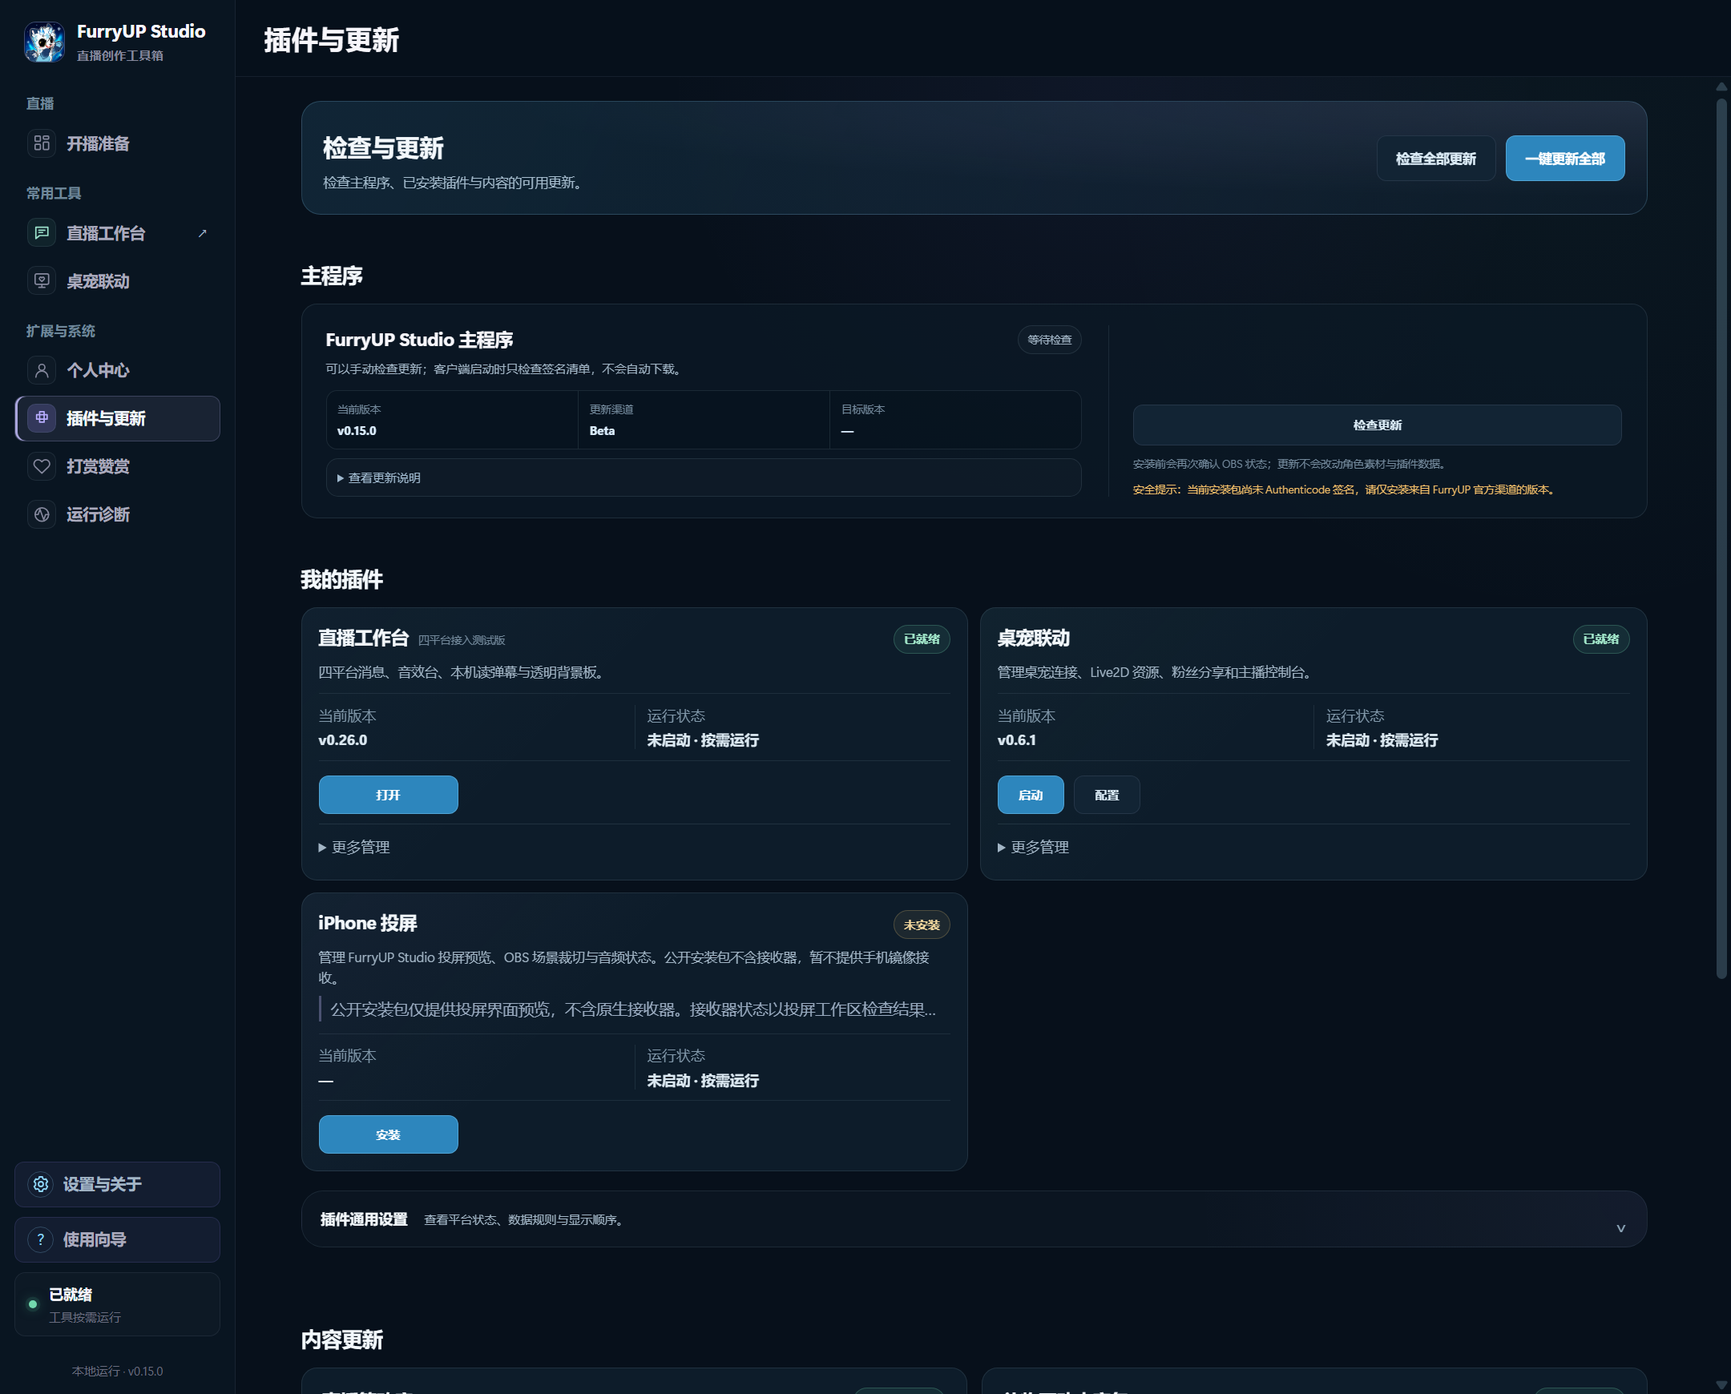
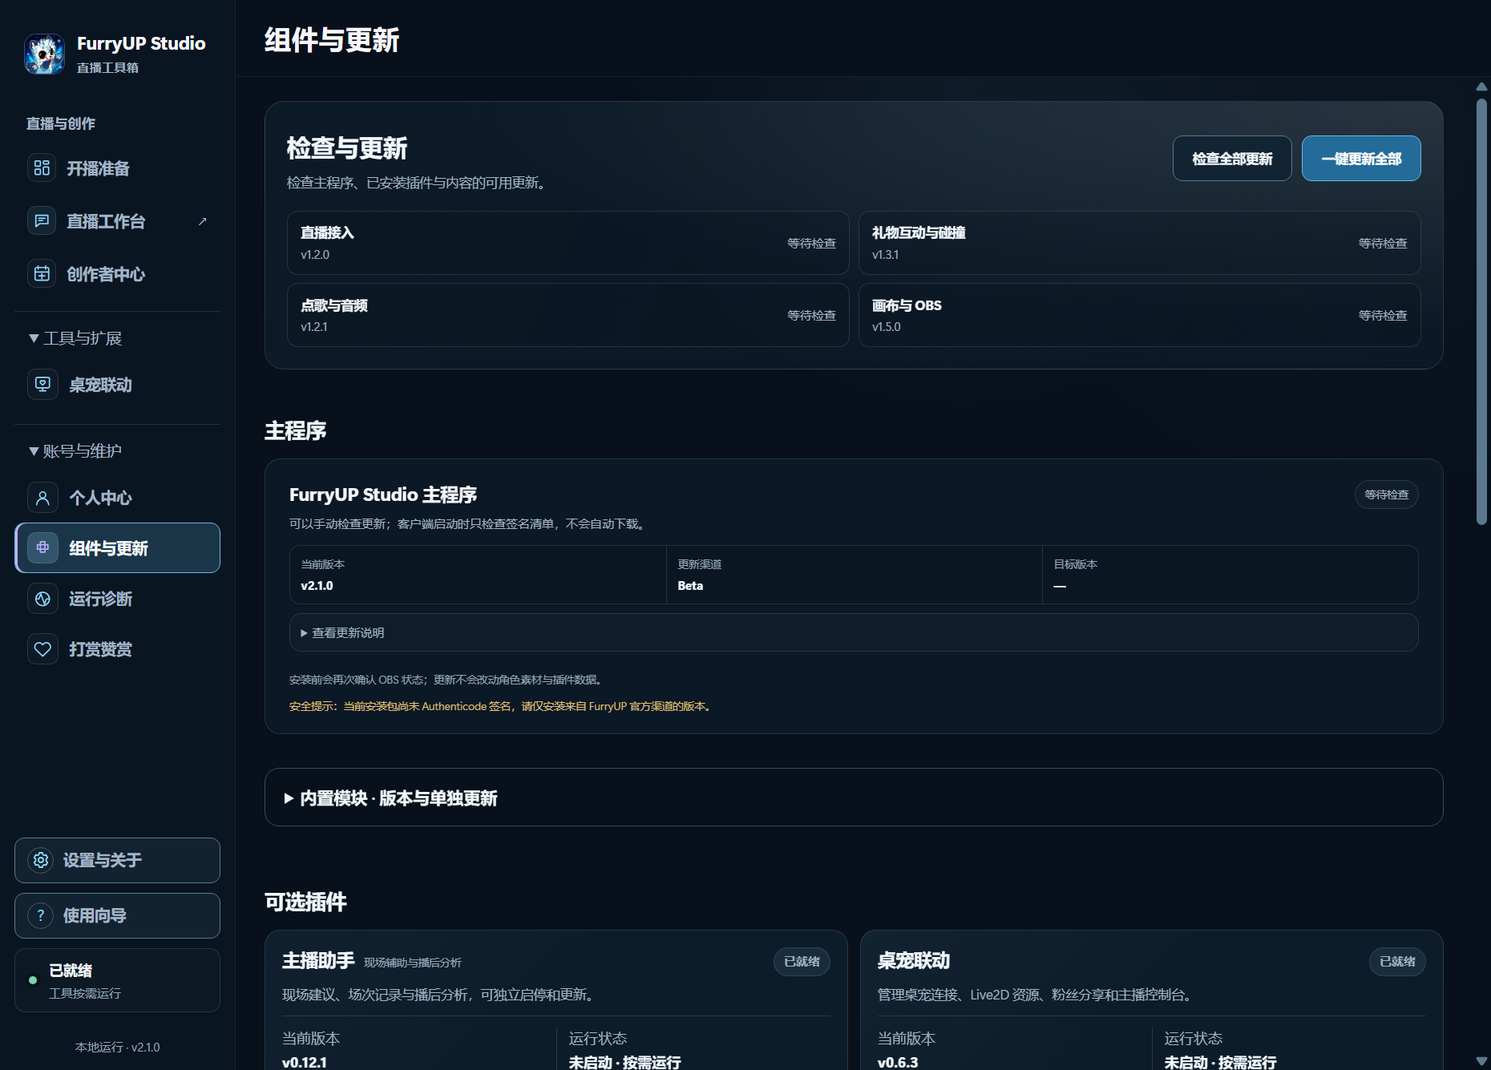
更新 FurryUP Studio 2.1.0 项目介绍和六张界面截图

diff --git a/README.md b/README.md
@@ -1,168 +1,70 @@
-<p align="center">
-  <img src="assets/furryup-studio.png" width="144" height="144" alt="FurryUP Studio 应用图标">
-</p>
+<p align="center"><img src="assets/furryup-studio.png" width="96" height="96" alt="FurryUP Studio 图标"></p>
 
-<h1 align="center">FurryUP Studio</h1>
+# FurryUP Studio 主播端
 
-<p align="center"><strong>把四平台弹幕、礼物与现场互动集中在一个工作台。</strong></p>
-<p align="center">主程序 + 独立插件 · 主播端官方安装包、软件介绍与重要更新</p>
+FurryUP Studio 把开播准备、直播互动和播后复盘放在一个 Windows 工作台。主播可以在同一处查看 B站、抖音、快手和视频号的弹幕与礼物，用 OBS 展示互动效果，也可以在下播后对照各平台的粉丝变化与收益记录。
 
-<p align="center">
-  <a href="https://frostynight.top/furryup">官方网站</a> ·
-  <a href="https://github.com/frostynight-furry/furryup-studio-releases/releases/tag/v0.15.0">最新版本</a> ·
-  <a href="#gift-interaction-and-model-collision">礼物互动与模型碰撞</a> ·
-  <a href="CHANGELOG.md">重要更新</a> ·
-  <a href="https://github.com/frostynight-furry/furryup-desktop-pet-releases">粉丝端桌宠</a>
-</p>
+**[下载 2.1.0 安装包 · Windows 10 / 11 x64](https://github.com/frostynight-furry/furryup-studio-releases/releases/download/v2.1.0/FurryUPStudio-Setup-2.1.0.exe)**　·　[本版说明与 SHA-256](https://github.com/frostynight-furry/furryup-studio-releases/releases/tag/v2.1.0)　·　[官方网站](https://frostynight.top/furryup)
 
-## 下载 FurryUP Studio
+## 第一次开播
 
-当前版本：**0.15.0**
+1. **开播准备**　选择出镜方式和这次要用的平台，点击「准备开播」。按页面提示检查 OBS 画面、麦克风和模型。
+2. **直播工作台**　在对应平台确认开播后，点击「连接直播」。快捷控制台显示各平台的连接状态、最近互动和朗读队列，也能直接打开悬浮窗。
+3. **创作者中心**　按需登录平台账号，查看粉丝和收益。图表标出统计来源、单位和记录范围，平台未返回的日期保留空白。
 
-| 适用系统 | 官方安装包 |
-| --- | --- |
-| **Windows 10 / Windows 11，64 位（x64）** | **[下载 FurryUP Studio 安装包](https://github.com/frostynight-furry/furryup-studio-releases/releases/download/v0.15.0/FurryUPStudio-Setup-0.15.0.exe)** |
+![2.1.0 开播准备，展示出镜方式、准备开播、连接直播与开播检查](assets/screenshots/studio-overview.png)
 
-[查看本版说明与 SHA-256 校验值 →](https://github.com/frostynight-furry/furryup-studio-releases/releases/tag/v0.15.0)
+## 直播中
 
-下载后退出正在运行的 FurryUP Studio，再运行安装包。首次使用请先配置需要的直播工具、平台连接和插件。安装包尚未进行 Windows 代码签名，Windows 可能显示“未知发布者”；请从本仓库或官网获取，并核对发布页的校验值。
+四个平台可分别连接。某个平台需要扫码或重新授权时，可以在「平台账号」处理。可收到的消息类型和观众指标由各平台提供。
 
-随包插件：**直播工作台 0.26.0 · 直播助手 0.8.1 · 桌宠联动 0.6.1 · iPhone 投屏预览 0.5.2**。
-
-## 可以做什么
-
-| 功能 | 使用方式 |
-| --- | --- |
-| **主程序 + 插件架构** | 主程序统一管理账户与工作区，直播工作台、直播助手、桌宠联动按需使用，支持独立安装、启停、更新和回滚。 |
-| **插件与更新** | 在一个页面检查主程序与插件更新，一键更新已安装插件并下载主程序更新，逐项查看进度与结果。 |
-| **四平台直播工作台** | 同时接入哔哩哔哩、抖音、快手和视频号，在同一工作台查看各平台连接状态，以及收到的弹幕和礼物消息。 |
-| **特定礼物规则** | 为指定平台与礼物设置反馈，按单次送礼、连送或累计数量触发效果，并管理等待队列。 |
-| **全局礼物特效** | 为其他礼物配置通用反馈，通过 OBS Studio 礼物互动源展示通知、礼物雨、爱心成形等效果。 |
-| **模型碰撞与自动接入** | 复用 VTube Studio 模型画面，自动准备 OBS 来源与礼物碰撞；有歧义时选择并记住，保留已有布局与规则。 |
-| **常驻礼物、节目与计时** | 管理常驻礼物展示、礼物对应的节目待办和倒计时，支持暂停、撤销及独立 OBS 输出。 |
-| **声音与现场控制** | 使用弹幕朗读、欢迎与礼物感谢、音效台和点歌队列，调整声音、暂停或跳过播放。 |
-| **直播助手** | 查看互动提醒、话题建议、礼物节目安排、投票和本场复盘，由主播决定是否采纳与执行。 |
-| **开播准备** | 保存平台与出镜方式，检查并启动 OBS Studio、平台直播工具等本机软件，减少重复准备。 |
-| **桌宠联动** | 管理角色与 Live2D 模型，为同一角色添加、选择和独立命名多款模型，明确发布后分享给粉丝。 |
-| **个人中心与语言** | 管理账户头像和名字、使用邮箱验证码登录或绑定账户；支持简体中文与 English 界面切换。 |
-
-四个平台可以同时连接；各平台提供的消息种类、字段与投递情况不同，实际显示以平台返回和客户端连接状态为准。各平台需分别完成房间或登录配置。FurryUP Studio 聚合收到的互动消息，正式推流仍需在对应平台软件中确认。
-
-### 一个主程序，按需使用插件
-
-FurryUP Studio 采用**主程序 + 独立插件**架构：主程序提供统一的账户、工作区与插件管理，直播工作台、直播助手和桌宠联动分别承担各自的功能。常规插件更新可以独立完成，无需每次重新安装整个主程序。
-
-新版**插件与更新**将更新总览和主程序更新放在页面顶部，下面集中管理各个插件。点击“检查全部更新”查看可用版本，或点击“一键更新全部”，依次更新已有插件并准备主程序安装包。主程序下载并校验完成后，点击“退出并安装”完成升级；安装前保留 OBS Studio 直播与录制状态检查。
-
-每个更新项目都有独立状态；个别插件失败时继续处理其余项目，可查看原因后重试。更新保留已验证的旧版本与已有的停用、卸载选择，不自动安装未安装的插件或启用已停用的插件。直播助手和消息采集独立运行，更新或停用助手不会中断直播工作台接收消息。
+![直播快捷控制台，展示四个平台的状态、本机预演的弹幕和礼物，以及朗读队列](assets/screenshots/live-workbench.png)
 
 <a id="gift-interaction-and-model-collision"></a>
 
-### 礼物互动与模型碰撞系统
+**礼物互动与模型碰撞**　可以按礼物种类、数量或连击设置反馈。先在「礼物互动」里本机试播，再决定是否启用。搭配支持实时轮廓的 VTube Studio，可为自己的模型手选碰撞部位，让礼物雨随模型轮廓落下，最后由 OBS 合成画面。
 
-**让观众送出的礼物，成为角色直播画面中的互动。**
+<details>
+<summary>查看礼物效果库</summary>
 
-FurryUP Studio 将礼物规则、视觉反馈和模型碰撞放在同一个直播工作台中。主播可以决定哪些礼物触发效果、达到多少数量开始播放，以及是否让礼物雨与正在出镜的模型发生碰撞。
+![礼物效果库，展示效果筛选、本机试播与触发设置](assets/screenshots/gift-interactions.png)
 
-| 系统 | 主播可以配置什么 |
-| --- | --- |
-| **礼物互动** | 特定礼物与通用规则、单次或连送数量门槛、通知和礼物雨、雨后爱心，以及音效与语音感谢。 |
-| **模型碰撞** | 从 VTube Studio 获取选定部位的实时轮廓，让礼物雨沿模型轮廓弹开或滑落，并与 OBS 中的模型画面对齐。 |
-| **自动接入** | 共用 VTube Studio 输入与碰撞准备流程；能唯一确定的来源自动复用，无法确定时选择一次并记住。 |
+</details>
 
-使用流程是 **准备连接与模型 → 保存并启用礼物规则 → 本地验证 → 接收直播礼物**。准备连接与启用规则分别控制，主播保留对实际播放的决定权。
+## 下播后看数据
 
-**公开范围：本节提供功能介绍与使用说明。礼物互动系统和模型碰撞系统的核心源码暂不公开，自制特效、业务规则实现、模型映射与专属素材保持私有。** 已单独开源的组件以各自仓库说明为准。
+「数据概览」并排显示粉丝分布与收益趋势。2.1.0 支持在同一个 FurryUP Studio 账号下查看已同步的创作数据。本机上传默认关闭，需要时在创作者中心开启「自动同步本机粉丝和收益」。
 
-直播控制台集中显示平台状态、最近弹幕、朗读队列、点歌和礼物互动。针对特定礼物设置规则后，可以安排对应的通知或动画；其他礼物使用通用规则。礼物视觉反馈、音效与语音感谢分别配置，可按直播需要启停。
+![创作者中心的数据概览，使用演示数据展示粉丝分布、收益趋势与本机上传开关](assets/screenshots/creator-overview.png)
 
-将礼物互动源添加到 OBS Studio 的浏览器源后，可显示礼物通知、礼物雨和爱心效果。画面与触发数量按规则配置；本地预览使用示例数据，正式反馈依据实际收到的礼物事件。外部直播软件需事先安装和配置，开播前请确认画面、模型、音频和推流设置。
+在「收益分析」里选择月份、平台和来源，可查看每日记录或近六个月趋势。视频号累计收入、可提现余额与月收益分开展示。视频号逐日、逐月分成明细以及抖音钱包账单仍有接入限制。各来源分别统计，直播分析金额以平台最终结算为准。
 
-例如，内置规则可按“同一观众连送满 10 份播放礼物雨、满 520 份雨后拼爱心”反馈礼物，也可修改或停用。新增推荐支持填入草稿后保存，或一键添加为停用规则，再由主播确认启用。“全局”表示可为全部平台或全部礼物配置通用反馈，不会跨平台混合计数；同一观众连送按平台、房间、观众与礼物种类分别统计。
+<details>
+<summary>查看每日收益图和记录覆盖范围</summary>
 
-在主窗口「插件与更新 → 内容更新 → 礼物互动内容包」统一检查与更新特效及推荐规则。礼物页将夜霜官方与第三方精选分开，支持预览和一键添加；内容更新不会覆盖已保存规则。符合现有播放接口的新增特效无需再次升级工作台插件。
+![收益分析演示图，展示按日走势、当月记录覆盖与同来源上期变化](assets/screenshots/creator-income.png)
 
-### 自动接入 VTube Studio 与模型碰撞
+</details>
 
-在礼物互动页点击“自动接入并准备碰撞”，程序会检测连接、识别可用模型输入并复用 OBS 场景。无法唯一确定来源时再让你选择，并记住结果。礼物触发条件与特效仍统一在礼物规则中设置，准备连接不会替你启用规则。
+## 安装与组件
 
-VTube Studio／VBridger 继续驱动模型，OBS Studio 负责最终合成。碰撞使用 VTube Studio 提供的实时轮廓，需要当前 VTube Studio 版本支持对应接口；不支持时会提示，程序不会自动切换其版本。新模型的碰撞部位可能需要选择一次。本功能使用轮廓近似碰撞，不是柔体模拟。
+升级前请正常退出正在运行的 FurryUP Studio，再运行 EXE。公开安装包尚未进行 Windows 代码签名，Windows 可能显示「未知发布者」。可在 PowerShell 中运行下列命令，并与本版 Release 的 SHA-256 对照。
 
-开启碰撞的礼物雨会逐个落下、弹开或滑落。以 520 份礼物为例，同屏默认最多 80 个，其余继续排队，全部离场后再开始爱心。模型与特效的对齐沿用当前场景设置，已有礼物规则不自动改写。升级后请留意工作台中的 OBS 页面更新提示，并在开播前本地验证。
+```powershell
+Get-FileHash .\FurryUPStudio-Setup-2.1.0.exe -Algorithm SHA256
+```
 
-**使用条件与验证范围（2026-10-26）：** 需要安装并配置 OBS Studio、支持实时轮廓接口的 VTube Studio，以及相应平台的房间或登录信息。首次 API 授权、无法识别的模型部位和有歧义的来源需要主播确认；碰撞依据所选部位的轮廓范围工作，不会自动理解所有模型结构。目前支持礼物雨的轮廓碰撞，四面抛掷、按命中部位触发受击动作尚未提供。
+「组件与更新」列出直播接入、礼物互动、点歌音频、画布与 OBS 的版本和更新状态。主播助手与桌宠联动按需使用。iPhone 投屏随包提供界面预览，接收端未包含在公开安装包中。
 
-当前介绍对应主程序 **0.15.0 / 工作台 0.26.0**。已完成本地与隔离环境检查，长时实播及不同设备环境仍在验证；启动、窗口恢复与部分哔哩哔哩礼物触发问题正在继续排查和修复，相关后续修复尚未随现有公开版本发布。请先完成本地试播，再用于正式节目。
+<details>
+<summary>查看组件与更新界面</summary>
 
-### 让助手整理信息，保留自己的节奏
+![组件与更新页面，展示内置模块的版本和主程序更新入口](assets/screenshots/plugins-updates.png)
 
-直播助手提供实时建议与复盘入口。建议先展示给主播；问题和投票需由主播明确采纳或开始后才进入 OBS Studio。在线建议需要主动发起，并使用本机已登录 Codex 账户的可用额度。停止助手不会中断直播工作台的消息采集，原有记录继续保留。
+</details>
 
-视频号会尝试复用本机保存的登录状态；登录过期或平台要求验证时，仍需重新扫码。联网语音需要网络连接，在线点歌需要配置兼容的音乐服务。
+六张截图均取自 2.1.0 公开安装包的运行界面。控制台消息来自本机预演，图表数值为演示数据。
 
-### 把角色陪伴延续到直播之外
+本仓库提供安装包、产品介绍和更新记录。主程序、界面与专属互动内容保持闭源。GitHub 自动生成的 Source code 压缩包仅含本仓库的文档与展示图片。[历史更新](CHANGELOG.md)
 
-主播与角色创作者使用 FurryUP Studio 管理角色和模型，准备好后再明确发布或同步给粉丝。粉丝使用独立的 **FurryUP 桌宠**，通过分享链接确认下载，并在自己的桌面上选择角色模型。两端分别安装、分别更新。
-
-启动软件或恢复会话不会自动发布本机模型。公开分享前需要连接账户，并确认拥有模型及相关素材的分发权限。
-
-## 界面预览
-
-以下截图来自 0.15.0 的实际界面，使用示例状态展示功能；不代表正在连接真实直播间。
-
-**插件与更新**
-
-![FurryUP Studio 插件与更新，一键管理主程序和插件更新](assets/screenshots/plugins-updates.png)
-
-**开播准备**
-
-![FurryUP Studio 开播准备界面](assets/screenshots/studio-overview.png)
-
-**四平台直播工作台**
-
-![FurryUP Studio 四平台直播工作台，使用示例消息](assets/screenshots/live-workbench.png)
-
-**礼物规则与视觉反馈**
-
-![FurryUP Studio 礼物互动规则界面，使用示例配置](assets/screenshots/gift-interactions.png)
-
-**直播助手**
-
-![FurryUP Studio 直播助手节目与话题界面](assets/screenshots/live-assistant.png)
-
-**桌宠联动**
-
-![FurryUP Studio 桌宠联动与模型管理界面](assets/screenshots/desktop-pet.png)
-
-## 本次更新 · 0.15.0
-
-- **自动准备模型碰撞：** VTube Studio 输入与礼物碰撞共用准备流程，自动识别并复用可确定的 OBS 来源；多个候选时选择一次并记住。首次连接授权与无法识别的模型部位仍由用户确认。
-- **保留现有直播配置：** 复用已有场景和来源，保留模型位置、缩放、裁剪、可见性及礼物规则；自动恢复连接，提示 OBS 页面版本并在适当时更新。
-- **逐个碰撞礼物雨：** 按礼物规则触发，让礼物落到模型轮廓上弹开或滑落。520 份礼物逐个生成，同屏默认最多 80 个，全部离场后再播放爱心；修复轮廓变化误清空礼物的问题。
-- **礼物与节目安排：** 增加常驻礼物、单次通知随机大小、节目待办和可增减时间的倒计时；推荐支持预览和选择，内容更新保留已保存规则。
-- **观众头衔：** 四平台展示能够明确获取的房管、守护、粉丝牌与等级信息，补充抖音星守护及快手扩展头衔识别，减少重复显示。
-- **主程序与配套插件：** 首页视觉与设置布局更新；主程序、直播助手、桌宠及投屏预览支持跟随系统语言，保留手动语言选择。
-- **版本组合：** 主程序 0.15.0；直播工作台 0.26.0；直播助手 0.8.1；桌宠联动 0.6.1；iPhone 投屏预览 0.5.2。公开投屏预览不含原生接收器，接收功能暂不可用。
-
-[查看历史重要更新 →](CHANGELOG.md)
-
-## 关于本仓库
-
-本仓库公开**安装包、软件介绍、更新记录和必要展示图片**。FurryUP Studio 主程序与其他插件源码不公开。独立 OBS 原生投屏接收器的[源码预览](https://github.com/frostynight-furry/furryup-airplay-receiver)在单独仓库公开；该仓库目前不提供经过公开发行验证的接收器二进制。
-
-GitHub 自动生成的 **Source code** 压缩包只包含对应标签下的介绍文档与展示图片。安装软件请下载上面的 **EXE**。
-
-本包不包含 iPhone 投屏内部接收器，该功能仍处于内部 Alpha。GitHub 与软件内更新同步发布，提供相同版本和相同内容的安装包。主程序和独立插件分别检查版本，可在“插件与更新”中查看。
-
-FurryUP 后续版本统一使用三段数字：维护更新递增末位、功能更新递增中位、重大更新递增首位，历史编号保留。
-
-品牌、图标与展示图片仅用于产品介绍，不代表开放源码或授予额外素材使用许可。
-
-发行主体：苏州工业园区夜霜文化创意工作室（个体工商户）
-
-官方网站：[frostynight.top/furryup](https://frostynight.top/furryup)
-
-支持邮箱：[yeshuang@frostynight.cn](mailto:yeshuang@frostynight.cn)
-
-反馈问题时，请附上 FurryUP Studio 版本、Windows 版本、复现步骤和脱敏诊断信息。
-
+发行主体为苏州工业园区夜霜文化创意工作室（个体工商户）。

diff --git a/CHANGELOG.md b/CHANGELOG.md
@@ -4,6 +4,18 @@
 
 这里记录面向使用者的重要变化。历史条目依据版本说明和构建记录整理，部分版本曾作为本地验收或内测候选；并非每个版本都曾提供公开安装包。历史功能范围不代表当前全部开放，下载请以本仓库 Releases 为准。
 
+## 2.1.0 · 2026-11-02
+
+- 创作者中心可在同一 FUS 账号下查看已同步的粉丝与收益记录。本机上传默认关闭，主播可以在数据概览里自行开启。
+- 开播准备、直播工作台和创作者中心成为三个常用入口。快捷控制台可打开悬浮窗，查看最近互动、朗读队列和礼物常驻。
+- 收益分析可按日或近六个月查看。累计收入、可提现余额、月度记录与平台原单位分别展示，缺少可比记录时保留空白。
+
+[2.1.0 公开安装包与校验值](https://github.com/frostynight-furry/furryup-studio-releases/releases/tag/v2.1.0)
+
+## 1.2.2
+
+直播工作台由主程序直接打开，直播接入、礼物互动与碰撞、点歌音频、画布与 OBS 分成四个模块。此版加入万圣节互动内容，提供统一的组件更新入口。[1.2.2 历史说明](https://github.com/frostynight-furry/furryup-studio-releases/releases/tag/v1.2.2)
+
 ## 0.15.0 · 2026-10-26
 
 **VTube Studio 自动接入、模型碰撞礼物雨与配套插件更新**
